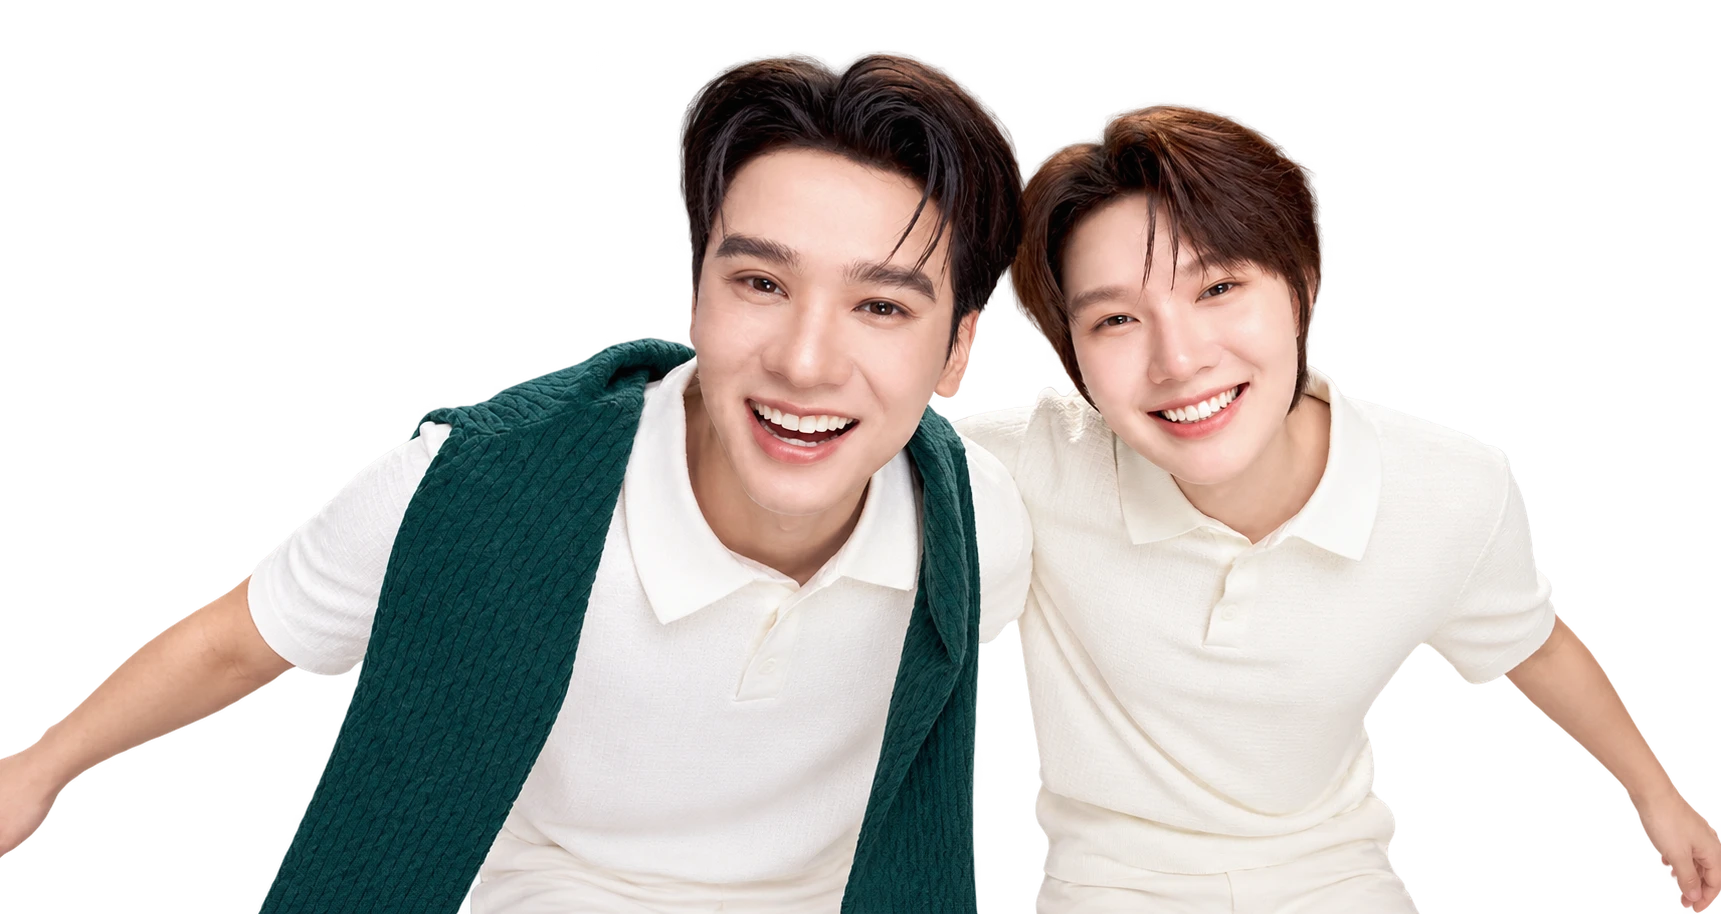
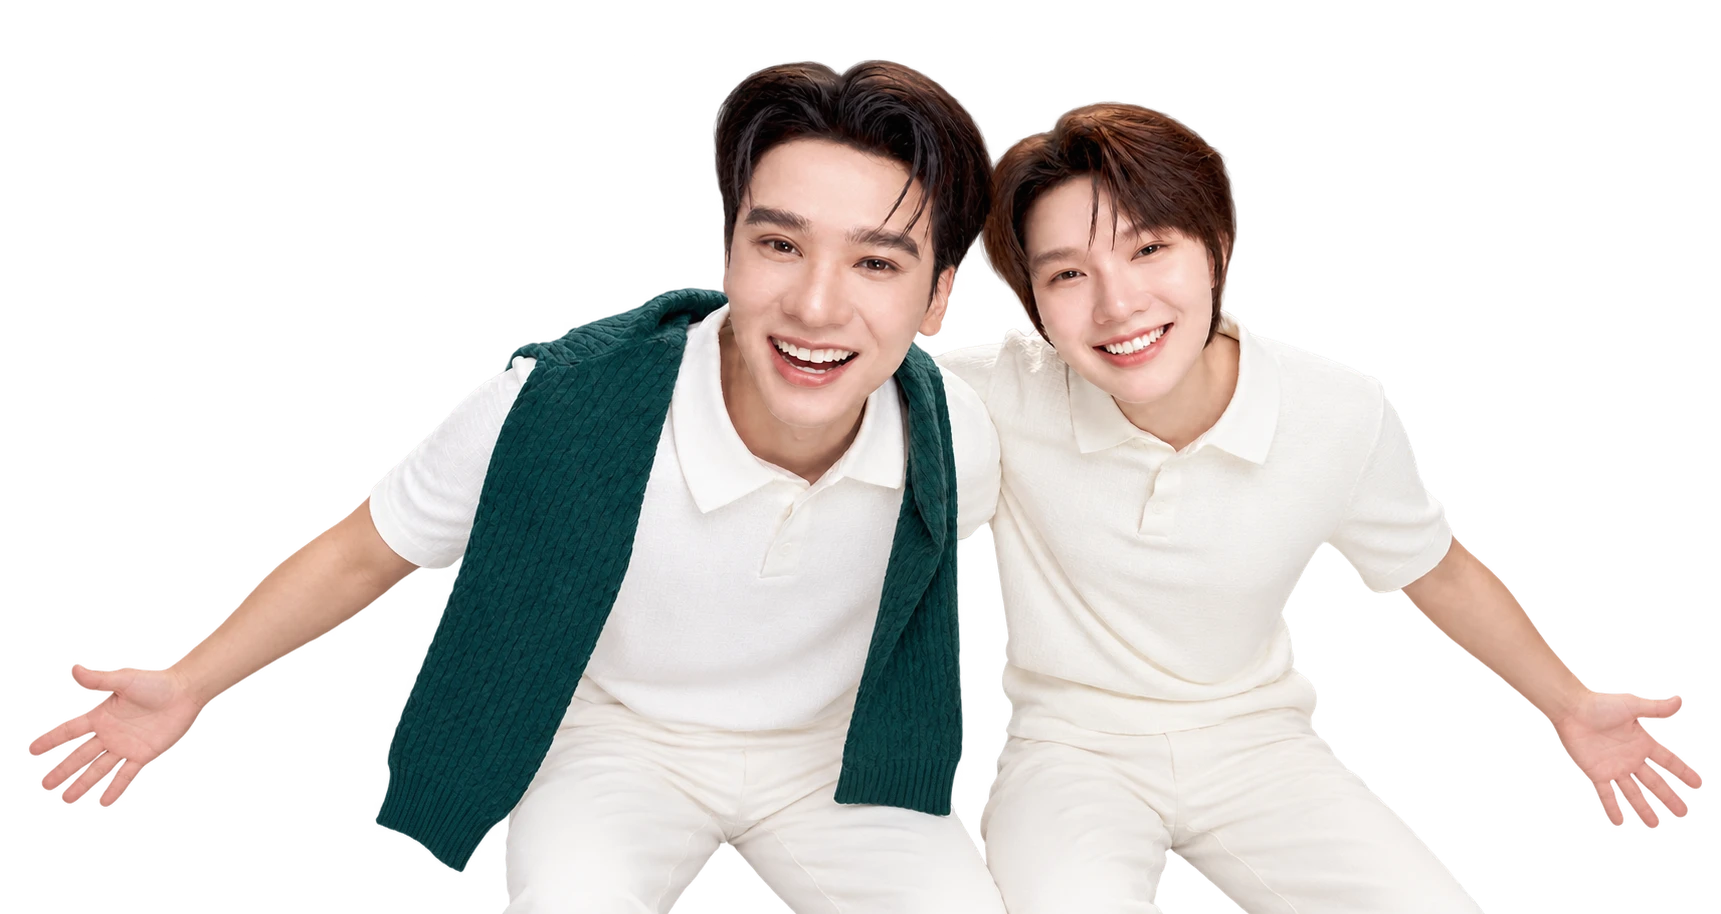
hero: a people cutout whose arms are whole
The old one was cut off at its own left and right edges, straight through both
outstretched arms — which is why the sides could not be bled, and why the arm
ended in mid-air a little way inside the frame. The replacement carries both
hands.

Same 1721x914 canvas, but the figures sit smaller inside it, so the placement
had to be found again: drawn at 0.984 of the frame's width starting 4% off its
left edge, against 0.784 at 6%. Two fits agreed on that independently — the
whole frame scored against the flat banner, and the faces on their own, which
are the one part of the two pictures that is pixel-for-pixel the same. The
first fit over the whole frame was the one to distrust here, since the two
pictures no longer hold the same pose.

The bottom bleed stays: the new cutout still ends at the waist of its canvas.

diff --git a/src/data/hero-3d.ts b/src/data/hero-3d.ts
@@ -84,9 +84,16 @@ export const hero3DScenes: Hero3DScene[] = [
       },
       {
         src: `${WINTER}/people.webp`,
-        w: 0.784,
-        x: 0.06,
-        y: 0.226,
+        // Re-fitted when the cutout was replaced with one whose arms are whole
+        // rather than cut off at the picture's edges. The new file is the same
+        // 1721x914 canvas but the figures sit smaller inside it, so the layer
+        // is drawn nearly full width and starts just off the left edge. Two
+        // independent fits agreed: the whole frame scored against the flat
+        // banner, and the faces alone — the one part of the two pictures that
+        // is pixel-for-pixel the same.
+        w: 0.984,
+        x: -0.04,
+        y: 0.205,
         depth: 5.2,
         bleedBottom: 0.12,
       },
